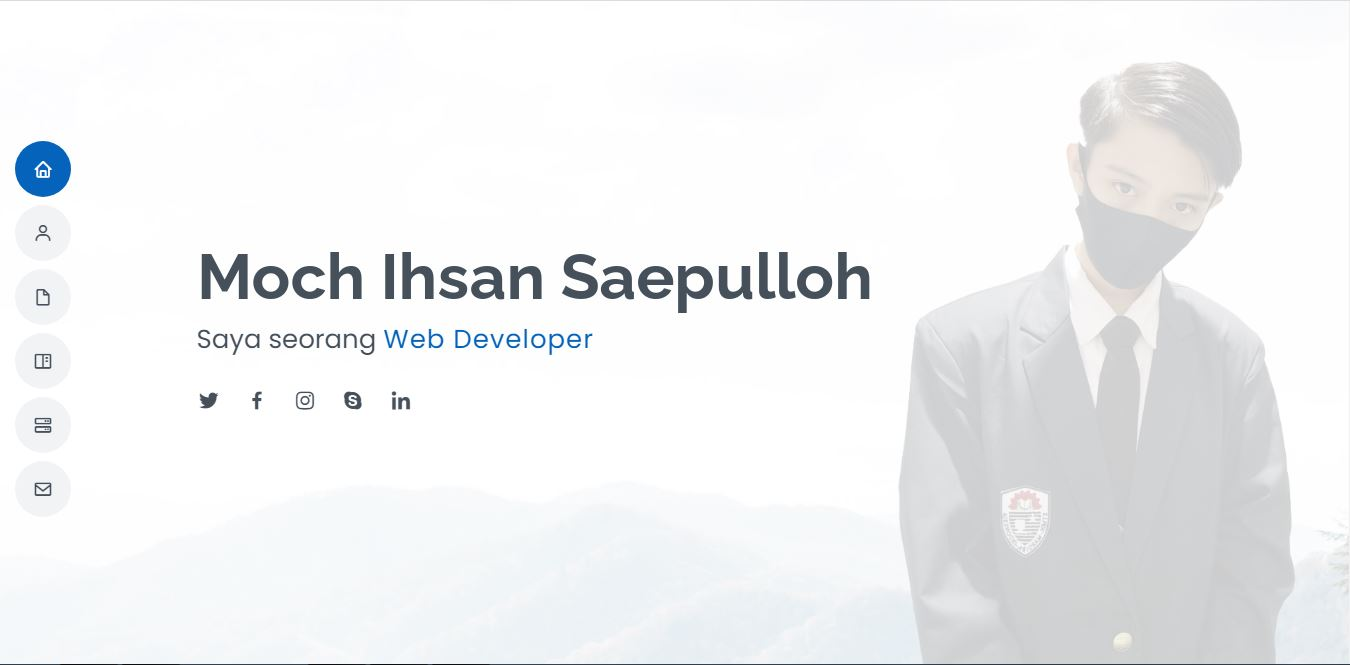
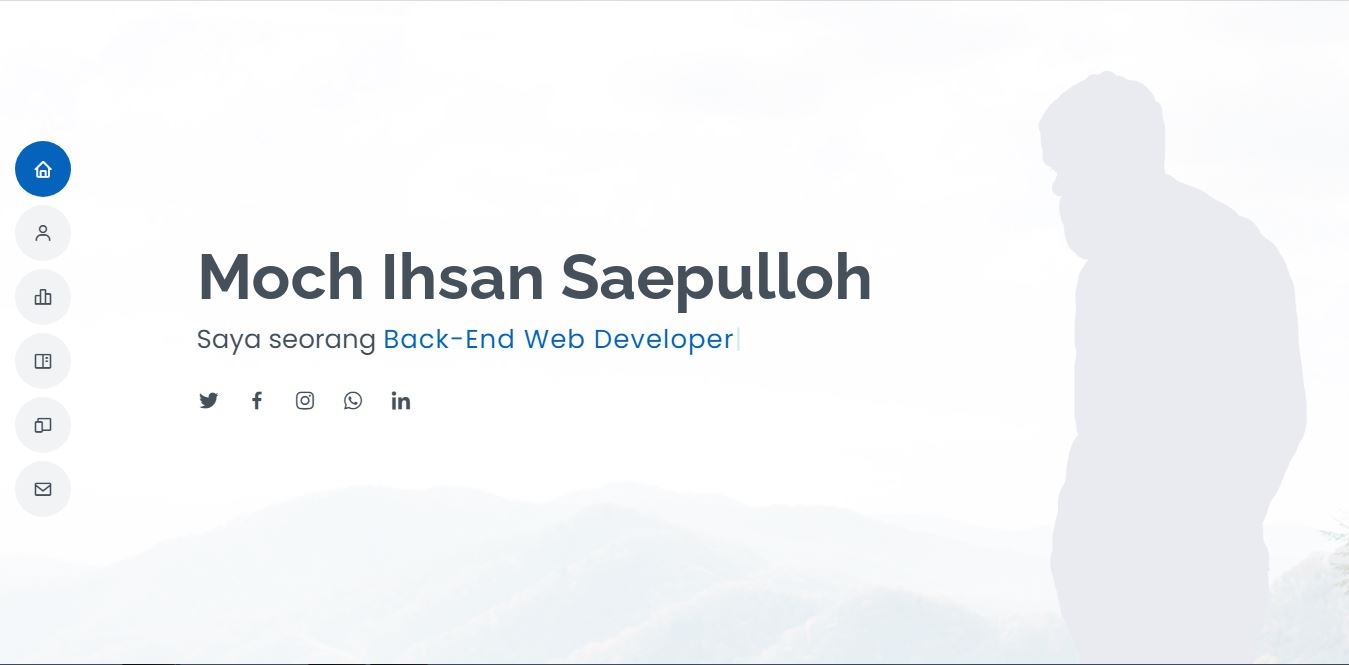
Update Gambar

diff --git a/index.html b/index.html
@@ -67,8 +67,8 @@
             class="bx bxl-facebook"></i></a>
         <a href="https://www.instagram.com/_mcsans/" target="_blank" class="instagram"><i
             class="bx bxl-instagram"></i></a>
-        <a href="#" class="google-plus"><i class="bx bxl-skype"></i></a>
-        <a href="#" class="linkedin"><i class="bx bxl-linkedin"></i></a>
+        <a href="https://wa.me/08995754988" class="google-plus"><i class="bx bxl-whatsapp"></i></a>
+        <a href="https://www.linkedin.com/in/mochamad-ihsan-saepulloh-5b2824242" class="linkedin"><i class="bx bxl-linkedin"></i></a>
       </div>
     </div>
   </section><!-- End Hero -->
@@ -314,7 +314,7 @@
                 <div class="portfolio-links">
                   <a href="img/portfolio/resume.JPG" data-gallery="portfolioGallery" class="portfolio-lightbox"><i
                       class="bx bx-plus"></i></a>
-                  <a href="https://mcsans.github.io/" class="portfolio-details-lightbox"
+                  <a href="https://mcsans.github.io/" target="_blank" class="portfolio-details-lightbox"
                     data-glightbox="type: external" title="Portfolio Details"><i class="bx bx-link"></i></a>
                 </div>
               </div>
@@ -360,7 +360,7 @@
                 <div class="portfolio-links">
                   <a href="img/portfolio/perpustakaan.JPG" data-gallery="portfolioGallery" class="portfolio-lightbox"><i
                         class="bx bx-plus"></i></a>
-                    <a href="https://mihsans.000webhostapp.com/perpustakaan/" class="portfolio-details-lightbox"
+                    <a href="https://mihsans.000webhostapp.com/perpustakaan/" target="_blank" class="portfolio-details-lightbox"
                       data-glightbox="type: external" title="Portfolio Details"><i class="bx bx-link"></i></a>
                 </div>
               </div>
@@ -376,7 +376,7 @@
                 <div class="portfolio-links">
                   <a href="img/portfolio/siasmi.JPG" data-gallery="portfolioGallery" class="portfolio-lightbox"><i
                         class="bx bx-plus"></i></a>
-                    <a href="https://mihsans.000webhostapp.com/siasmi/" class="portfolio-details-lightbox"
+                    <a href="https://mihsans.000webhostapp.com/siasmi/" target="_blank" class="portfolio-details-lightbox"
                       data-glightbox="type: external" title="Portfolio Details"><i class="bx bx-link"></i></a>
                 </div>
               </div>
@@ -468,8 +468,8 @@
             class="bx bxl-facebook"></i></a>
         <a href="https://www.instagram.com/_mcsans/" target="_blank" class="instagram"><i
             class="bx bxl-instagram"></i></a>
-        <a href="#" class="google-plus"><i class="bx bxl-skype"></i></a>
-        <a href="#" class="linkedin"><i class="bx bxl-linkedin"></i></a>
+        <a href="https://wa.me/08995754988" class="google-plus"><i class="bx bxl-whatsapp"></i></a>
+        <a href="https://www.linkedin.com/in/mochamad-ihsan-saepulloh-5b2824242" class="linkedin"><i class="bx bxl-linkedin"></i></a>
       </div>
       <div class="copyright">
         &copy; Copyright <strong><span>Moch Ihsan Saepulloh</span></strong>. All Rights Reserved
@@ -479,7 +479,7 @@
         <!-- You can delete the links only if you purchased the pro version. -->
         <!-- Licensing information: [license-url] -->
         <!-- Purchase the pro version with working PHP/AJAX contact form: https://bootstrapmade.com/free-html-bootstrap-template-my-resume/ -->
-        Designed by <a href="https://bootstrapmade.com/">BootstrapMade</a>
+        <!-- Designed by <a href="https://bootstrapmade.com/">BootstrapMade</a> -->
       </div>
     </div>
   </footer><!-- End Footer -->

diff --git a/js/main.js b/js/main.js
@@ -208,11 +208,11 @@
   /**
    * Initiate portfolio details lightbox 
    */
-  const portfolioDetailsLightbox = GLightbox({
-    selector: '.portfolio-details-lightbox',
-    width: '90%',
-    height: '90vh'
-  });
+  // const portfolioDetailsLightbox = GLightbox({
+  //   selector: '.portfolio-details-lightbox',
+  //   width: '90%',
+  //   height: '90vh'
+  // });
 
   /**
    * Portfolio details slider

diff --git a/css/style.css b/css/style.css
@@ -242,7 +242,7 @@ h1, h2, h3, h4, h5, h6 {
 #hero {
   width: 100%;
   height: 100vh;
-  background: url("../img/hero-bg.jpg") top right no-repeat;
+  background: url("../img/bg-hero.jpg") top right no-repeat;
   background-size: cover;
   position: relative;
 }
